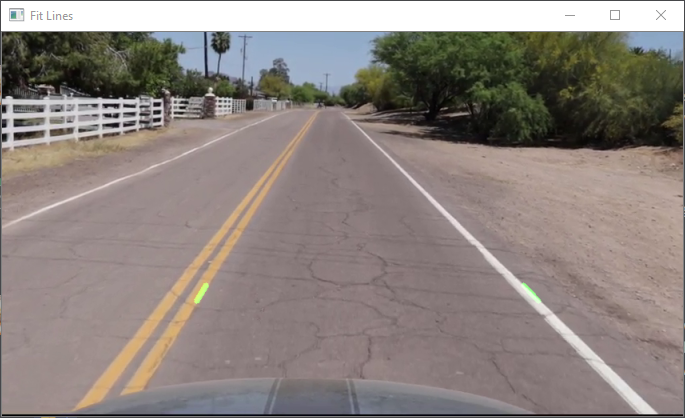
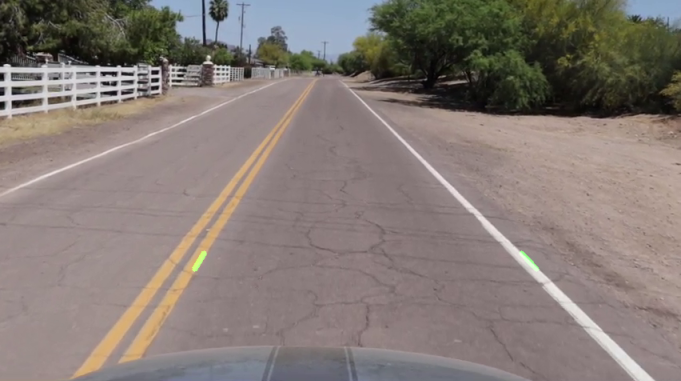
Updates to sample images

diff --git a/README.md b/README.md
@@ -1,6 +1,6 @@
 # Lane detection code for EGR 530
 
-![Code demo 1](https://github.com/cdbrauer/Lane-Detection-EGR530/raw/master/lane-detection-test-3.png)
+![Code demo 1](https://github.com/cdbrauer/Lane-Detection-EGR530/raw/master/lane-detection-test-4.png)
 
 ## LaneAnnotationV2.py
 
